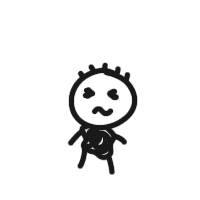
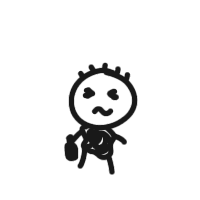
Arreglo de bug Animacion

Changed region(s): [[0.3, 0.66, 0.42, 0.81]]

diff --git a/Assets/Scripts/BoringMove.cs b/Assets/Scripts/BoringMove.cs
@@ -29,7 +29,6 @@ public class BoringMove : MonoBehaviour
             // Persecución
             Vector2 direccionAlJugador = (jugador.position - transform.position).normalized;
             transform.Translate(direccionAlJugador * velocidadPersecucion * Time.deltaTime);
-            animator.SetBool("DrunkWalk", true);
 
             if (animator != null)
             {
